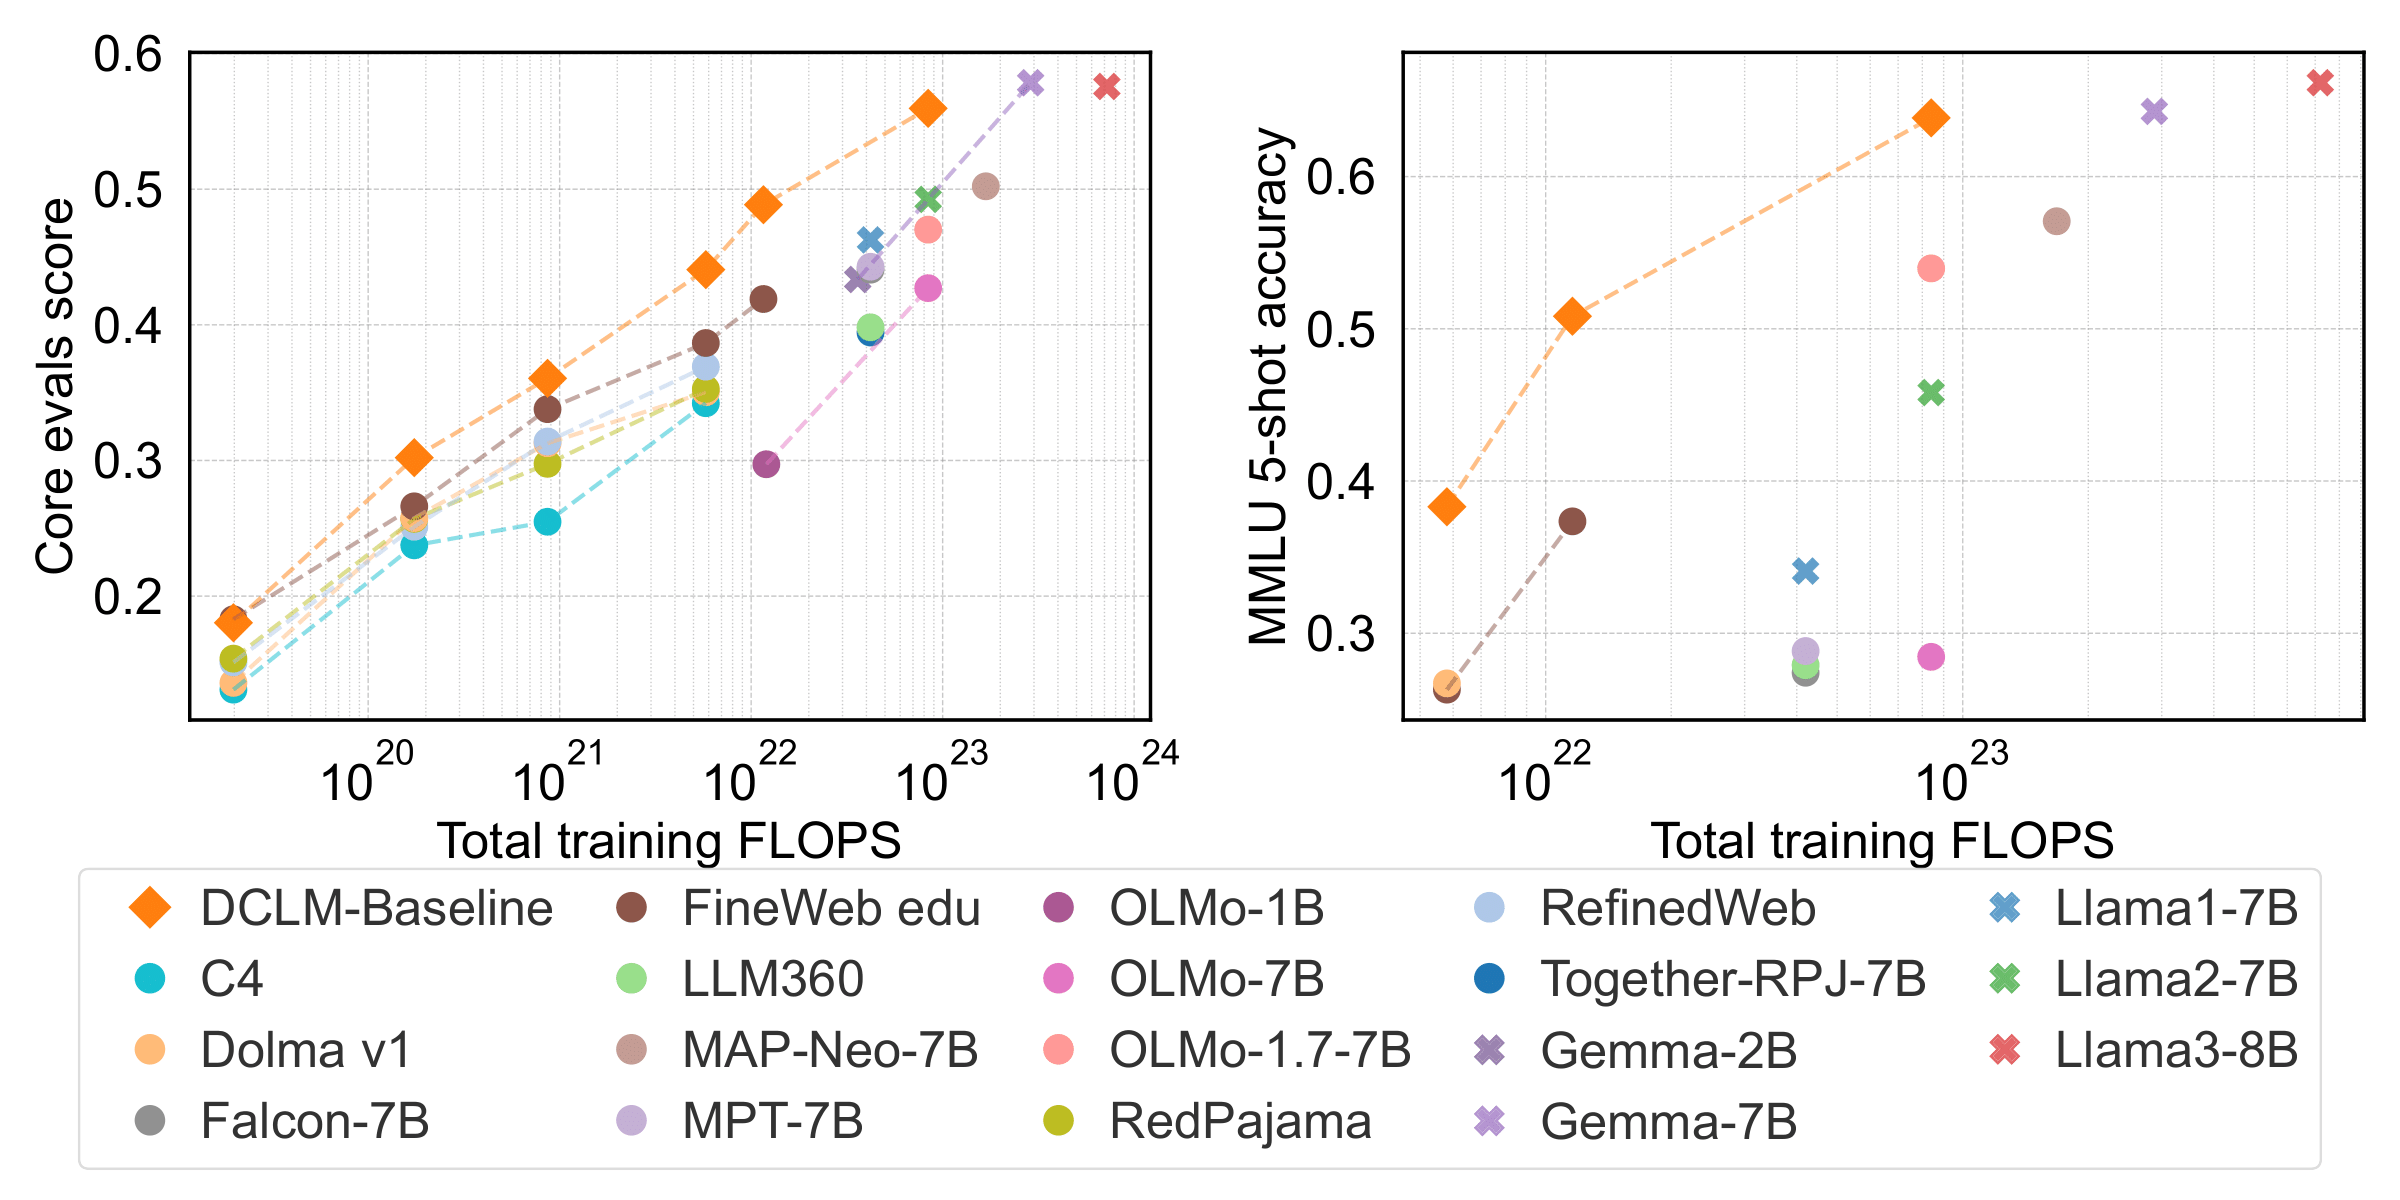
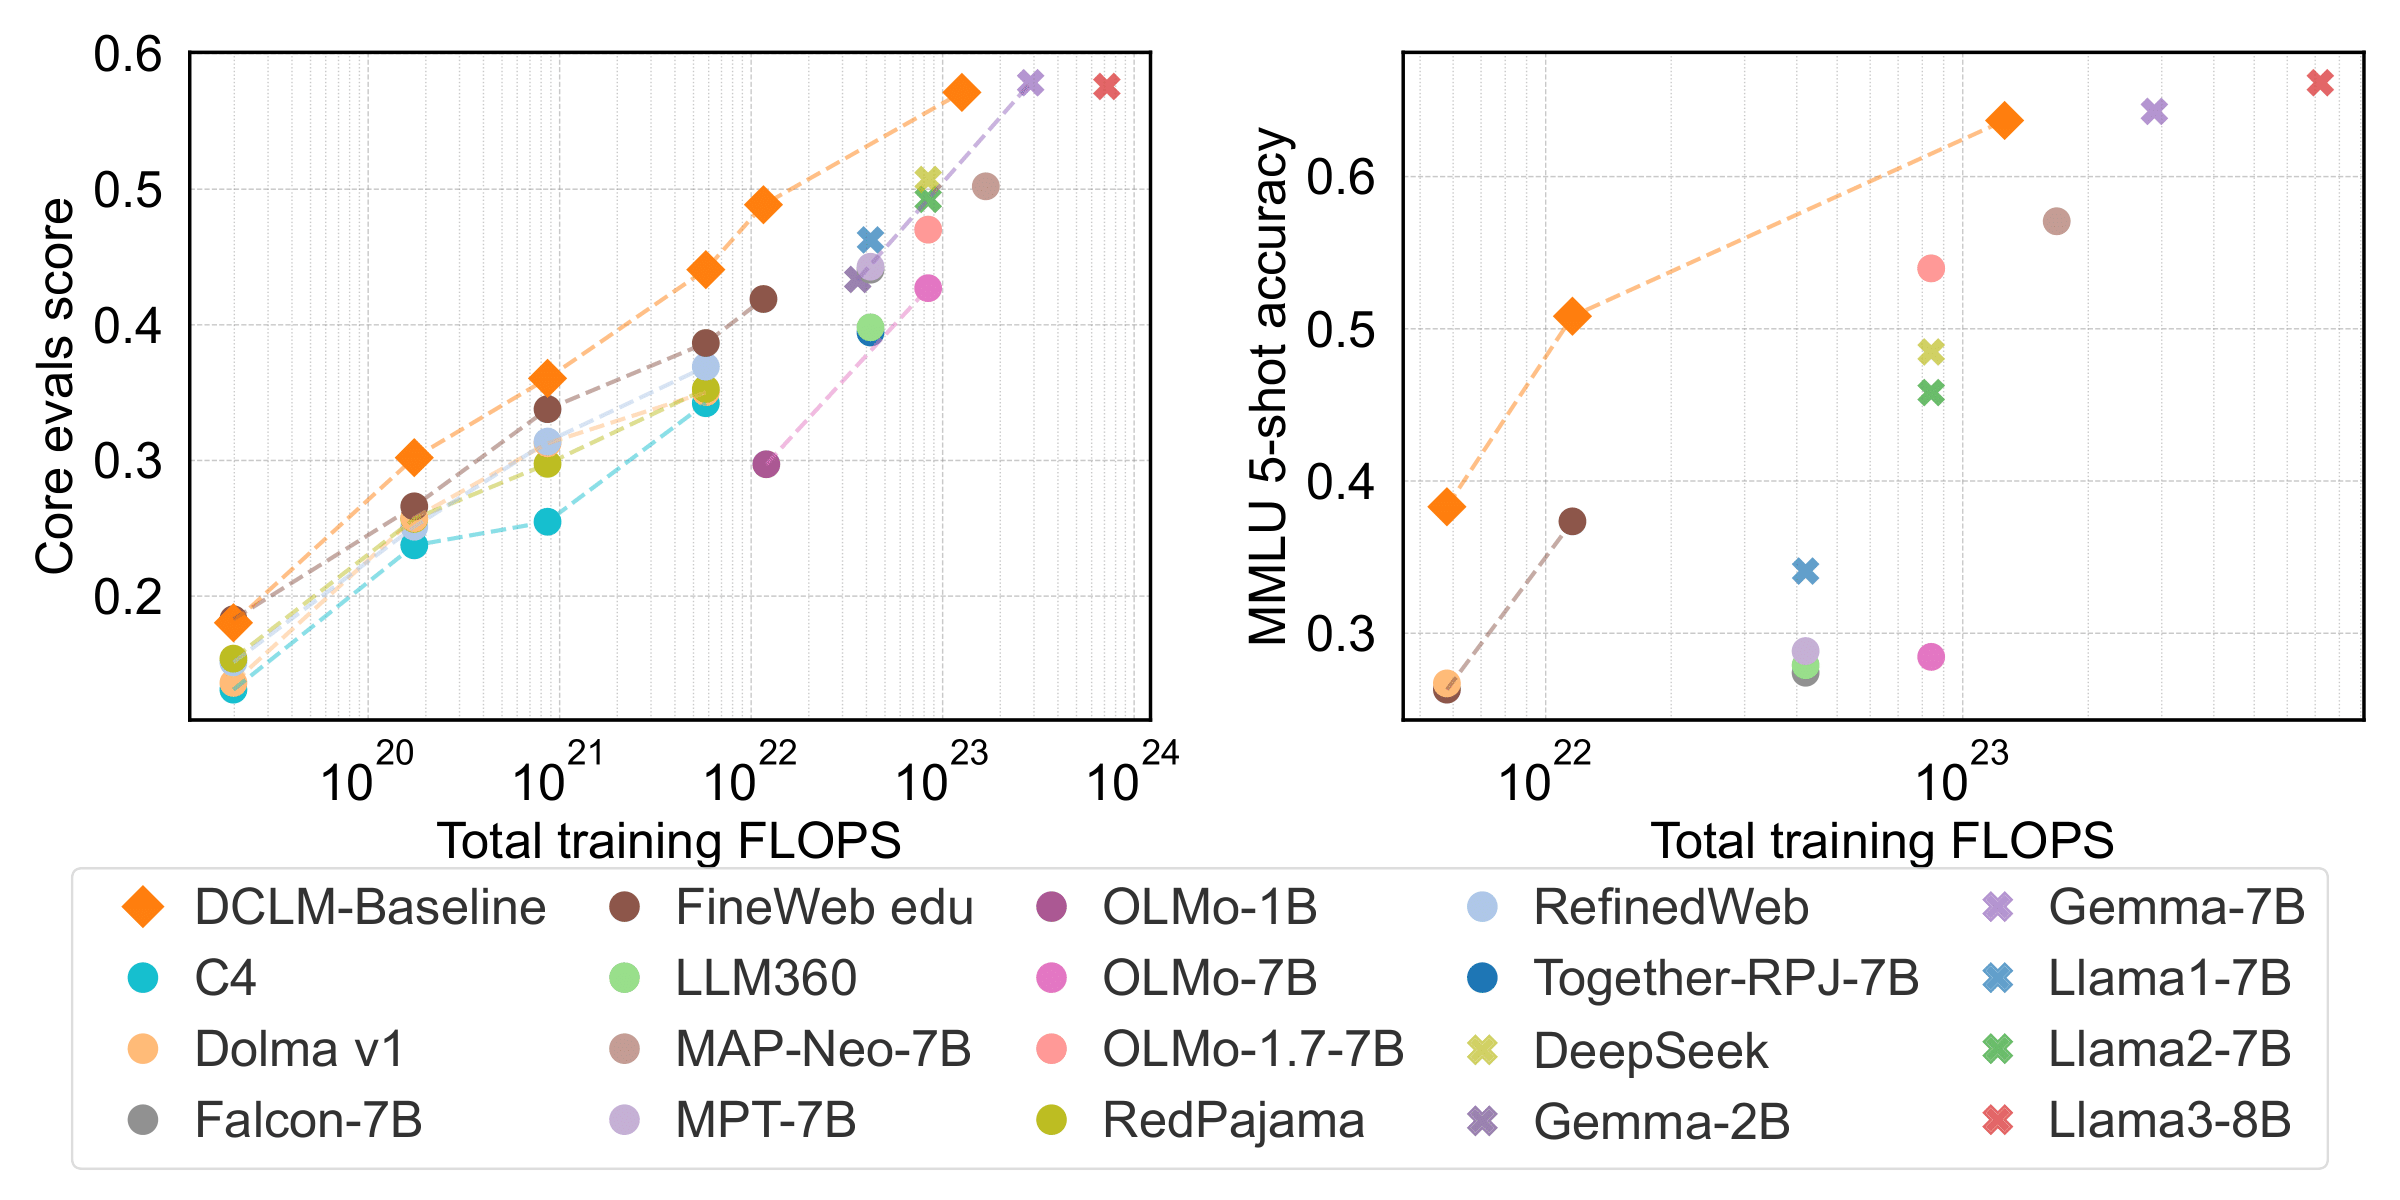
updated links

diff --git a/README.md b/README.md
@@ -16,7 +16,7 @@
 
 ## Introduction
 
-DataComp-LM (DCLM) is a comprehensive framework designed for building and training large language models (LLMs) with diverse datasets. It offers a standardized corpus of over 300T unfiltered tokens from CommonCrawl, effective pretraining recipes based on the open_lm framework, and an extensive suite of over 50 evaluations. This repository provides tools and guidelines for processing raw data, tokenizing, shuffling, training models, and evaluating their performance. 
+[DataComp-LM (DCLM)](https://datacomp.ai/dclm/) is a comprehensive framework designed for building and training large language models (LLMs) with diverse datasets. It offers a standardized corpus of over 300T unfiltered tokens from CommonCrawl, effective pretraining recipes based on the open_lm framework, and an extensive suite of over 50 evaluations. This repository provides tools and guidelines for processing raw data, tokenizing, shuffling, training models, and evaluating their performance. 
 
 DCLM enables researchers to experiment with various dataset construction strategies across different compute scales, from 411M to 7B parameter models. Our baseline experiments show significant improvements in model performance through optimized dataset design.
 
@@ -41,34 +41,38 @@ For more details, please refer to our [paper](https://placeholder-link-to-paper.
 
 ## Leaderboard
 
-The DCLM [leaderboard](https://placeholder-link-to-leaderboard.com) showcases the performance of models trained on various scales and datasets. The leaderboard is updated regularly with the latest submissions from the community.
+The DCLM [leaderboard](https://datacomp.ai/dclm/leaderboard) showcases the performance of models trained on various scales and datasets. The leaderboard is updated regularly with the latest submissions from the community.
 
 Below are comparisions of our model with others in the 7B regime.
 
-| Model          | Params | Tokens | Open dataset? | CORE | MMLU | EXTENDED |
-|----------------|--------|--------|---------------|------|------|----------|
-| Llama2         | 7B     | 2T     | ✗             | 49.2 | 45.8 | 37.5     |
-| Mistral-0.3    | 7B     | ?      | ✗             | 57.0 | 62.7 | 45.1     |
-| Llama3         | 8B     | 15T    | ✗             | 57.6 | **66.2** | **46.3** |
-| Gemma          | 8B     | 6T     | ✗             | **57.8** | 64.3 | 44.6     |
-| <hr>           |        |        |               |      |      |          |
-| Falcon         | 7B     | 1T     | ✓             | 44.1 | 27.4 | 25.1     |
-| OLMo-1.7       | 7B     | 2T     | ✓             | 47.0 | 54.0 | 35.0     |
-| MAP-Neo        | 7B     | 4T     | ✓             | 50.2 | 57.1 | 40.4     |
-| <hr>           |        |        |               |      |      |          |
-| FineWeb edu    | 7B     | 0.14T  | ✓             | 38.7 | 26.3 | 22.1     |
-| FineWeb edu    | 7B     | 0.28T  | ✓             | 41.9 | 37.3 | 24.5     |
-| <hr>           |        |        |               |      |      |          |
-| **DCLM-BASELINE** | 7B     | 0.14T  | ✓             | 44.1 | 38.3 | 25.0     |
-| **DCLM-BASELINE** | 7B     | 0.28T  | ✓             | 48.9 | 50.8 | 31.8     |
-| **DCLM-BASELINE** | 7B     | 2.2T   | ✓             | 55.9 | 62.7 | 43.8     |
+| Model         | Params | Tokens | Open dataset? | CORE     | MMLU     | EXTENDED |
+|---------------|--------|--------|---------------|----------|----------|----------|
+| **Open weights, closed datasets** |        |        |               |          |          |          |
+| Llama2        | 7B     | 2T     | ✗             | 49.2     | 45.8     | 34.1     |
+| DeepSeek      | 7B     | 2T     | ✗             | 50.7     | 48.5     | 35.3     |
+| Mistral-0.3   | 7B     | ?      | ✗             | 57.0     | 62.7     | 45.1     |
+| QWEN-2        | 7B     | ?      | ✗             | 57.5     | **71.9** | 50.5     |
+| Llama3        | 8B     | 15T    | ✗             | 57.6     | 66.2     | 46.3     |
+| Gemma         | 8B     | 6T     | ✗             | 57.8     | 64.3     | 44.6     |
+| Phi-3         | 7B     | ?      | ✗             | **61.0** | 69.9     | **57.9** |
+| **Open weights, open datasets** |        |        |               |          |          |          |
+| Falcon        | 7B     | 1T     | ✓             | 44.1     | 27.4     | 25.1     |
+| OLMo-1.7      | 7B     | 2.1T   | ✓             | 47.0     | 54.0     | 34.2     |
+| MAP-Neo       | 7B     | 4.5T   | ✓             | **50.2** | **57.1** | **40.4** |
+| **Models we trained** |        |        |               |          |          |          |
+| FineWeb edu   | 7B     | 0.14T  | ✓             | 38.7     | 26.3     | 22.1     |
+| FineWeb edu   | 7B     | 0.28T  | ✓             | 41.9     | 37.3     | 24.5     |
+| **DCLM-BASELINE** | 7B     | 0.14T  | ✓             | 44.1     | 38.3     | 25.0     |
+| **DCLM-BASELINE** | 7B     | 0.28T  | ✓             | 48.9     | 50.8     | 31.8     |
+| **DCLM-BASELINE** | 7B     | 2.6T   | ✓             | **57.1** | **63.7** | **45.4** |
+
 
 ## Getting Started
 To get started with DCLM, follow these steps:
 
 1. **Clone the repository**:
     ```bash
-    git clone https://github.com/your-repo/DCLM.git
+    git clone https://github.com/mlfoundations/DCLM.git
     cd DCLM
     ```
 
